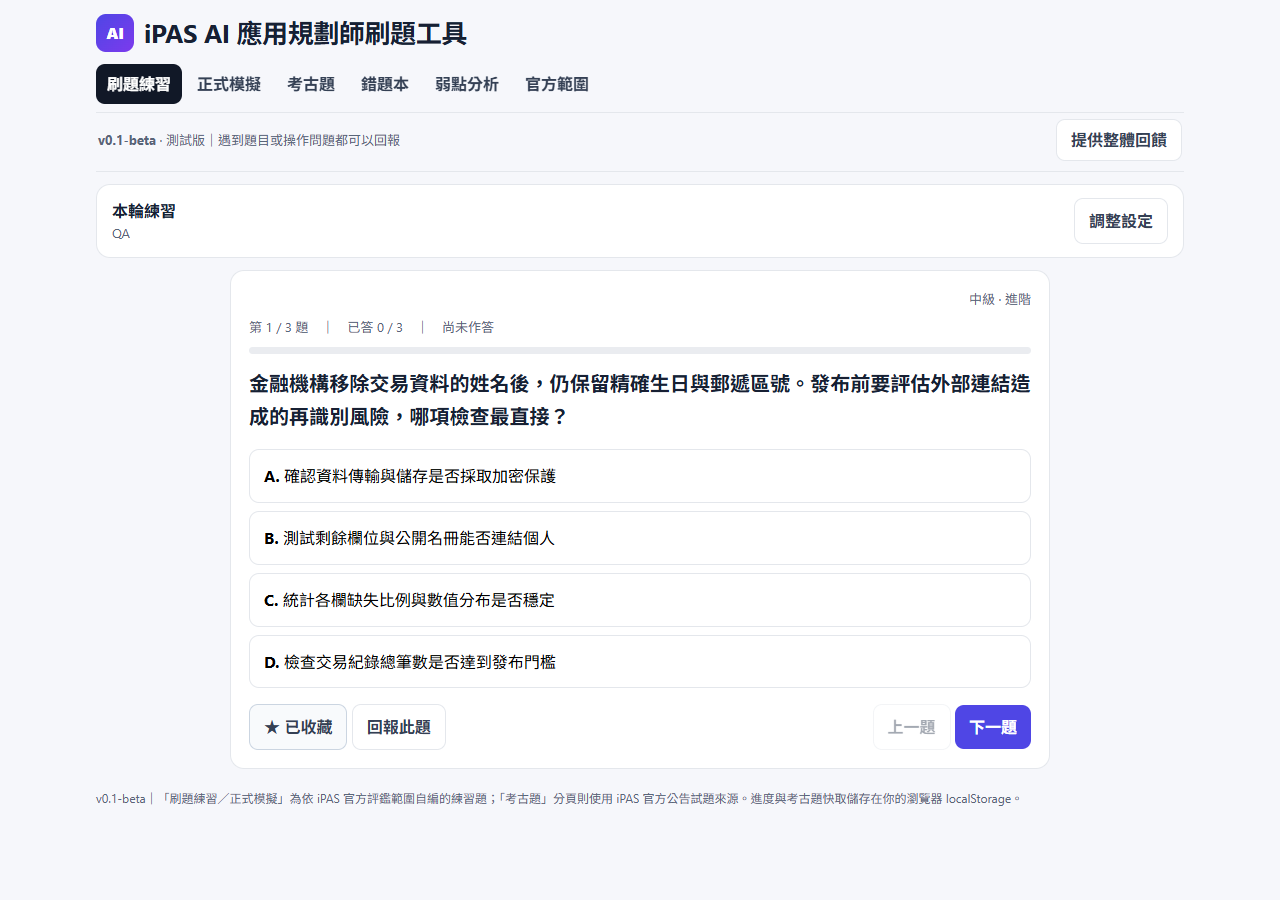
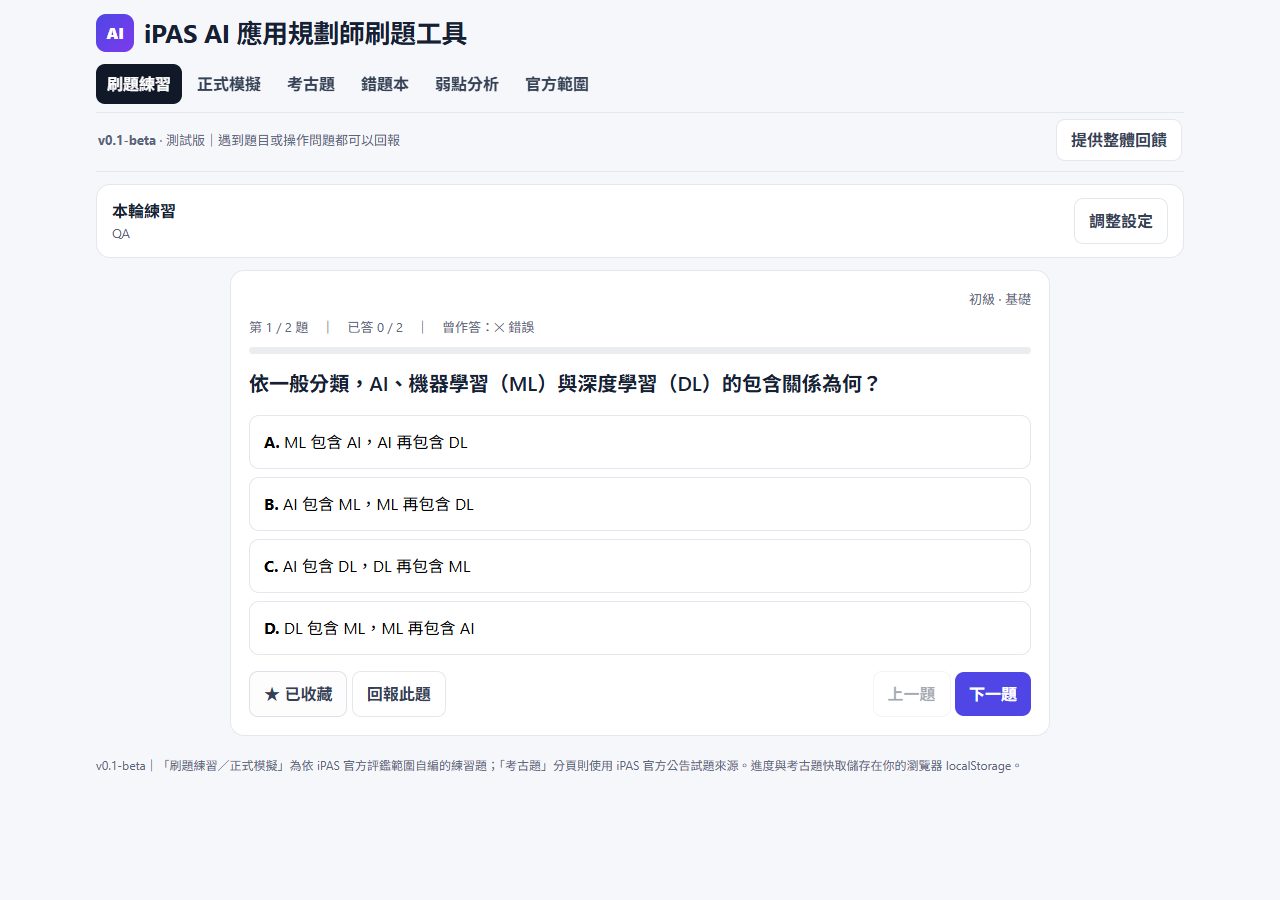
fix: hide historical practice topics until current-round answer (#154)

Changed region(s): [[0.0938, 0.4044, 0.8125, 0.9022], [0.3438, 0.3422, 0.4375, 0.3733], [0.75, 0.3111, 0.8125, 0.3422]]

diff --git a/index.html b/index.html
@@ -527,7 +527,7 @@ function renderPracticeQ(){
    ? `本輪：${current.ok?"✓ 正確":"✕ 錯誤"}`
    : past?`曾作答：${past.correct?"✓ 正確":"✕ 錯誤"}`:"尚未作答";
  a.innerHTML=`<div class="card questionCard ${q.id.startsWith('PAST-')?'officialQuestion':''}">
- <div class="qmeta"><span id="practiceTopicLabel" class="qmetaPrimary">${current||past?`${q.subject} · ${q.topic} ${esc(q.topicName)}`:""}</span><span class="qmetaSecondary">${q.level} · ${difficultyLabel(q.difficulty)}</span></div>
+ <div class="qmeta"><span id="practiceTopicLabel" class="qmetaPrimary">${current?`${q.subject} · ${q.topic} ${esc(q.topicName)}`:""}</span><span class="qmetaSecondary">${q.level} · ${difficultyLabel(q.difficulty)}</span></div>
  <div class="small">第 ${pIndex+1} / ${practiceSet.length} 題　｜　<span id="practiceAnsweredCount">已答 ${answered} / ${practiceSet.length}</span>　｜　<span id="practiceAttemptStatus" aria-live="polite">${attemptStatus}</span></div>
  <div class="progress" role="progressbar" aria-label="本輪作答進度" aria-valuemin="0" aria-valuemax="${practiceSet.length}" aria-valuenow="${answered}"><div id="practiceProgressFill" style="width:${practiceSet.length?answered/practiceSet.length*100:0}%"></div></div>
  ${renderPastSharedContext(q)}

diff --git a/docs/qa/issue-154/README.md b/docs/qa/issue-154/README.md
@@ -2,7 +2,9 @@
 
 Baseline: `dev@8894fac9267f558dd2c5448c07a8bd45a51ac095`. Branch: `ux/issue-154-practice-topic-reveal`.
 
-App change is limited to the Practice topic label in `index.html`: emit an empty label for an unrecorded answer; reveal the original label through the existing answer restoration path. Both current-round answers and existing `state.attempts` count as answered when revisiting. No question data, storage schema or scoring changes.
+App change is limited to the Practice topic label in `index.html`: emit an empty label until the question is answered in the current round; reveal the original label through the existing answer restoration path. Persisted `state.attempts` retains the existing history status but never makes the topic reveal-eligible in a new round. No question data, storage schema or scoring changes.
+
+Rework on 2026-10-10 addresses Technical Review FAIL on `f1de7ad`: the original `current || past` condition incorrectly exposed topics for historical answers. The condition now uses only `current`. The assertions and screenshots below supersede the original historical-answer QA expectation.
 
 ## Verification
 
@@ -11,7 +13,8 @@ Installed Edge, local HTTP, fresh isolated profiles at 1280×900 and 375×900.
 - PASS: unanswered label text is empty in the DOM, with no topic text/attribute fallback. Difficulty, question number and progress remain visible.
 - PASS: correct and incorrect choices immediately reveal the exact original subject/topic/name label; answer feedback, explanation, four disabled options and progress update normally.
 - PASS: next unanswered question has an empty label; previous answered question retains its label and restored selection.
-- PASS: bookmarking before answering does not reveal the topic. Existing historical answers and persisted answers after reload show their label; saved records remain unchanged by viewing.
+- PASS: bookmarking before answering does not reveal the topic. Historical answers, persisted answers after reload, and starting another round all keep the topic empty until a current-round answer; `曾作答` history remains visible.
+- PASS: the actual Practice `wrong` filter starts with historical wrong answers and empty topics. Incorrect answers immediately reveal the original label; next hides and previous retains the current-round label.
 - PASS: desktop/mobile screenshots inspected, no page horizontal overflow or JavaScript errors.
 - PASS existing source-aware weakness browser QA: both widths, 14 aggregation/selection cases, official cold-load/retry, no-drill, scoring/navigation and record preservation.
 - PASS existing official bundle browser QA: both widths, direct/shared/wrong contexts, migration/scoring/Practice/Mock/tab smoke and isolated Dev loader.
@@ -27,9 +30,10 @@ Existing regression commands:
 node scripts/test_source_aware_weakness.cjs
 node scripts/test_official_bundle_browser.cjs
 node scripts/test_official_competency_runtime.cjs
+node scripts/test_practice_topic_reveal.cjs
 git diff --check
 ```
 
-Targeted topic QA used three canonical questions (unrecorded privacy topic, unrecorded AI topic, historically answered generative-AI topic), an isolated seeded profile, real option clicks/keyboard activation, previous/next, bookmark and reload. No persistent test fixture or new dependency was added.
+Targeted topic QA is reproducible in `scripts/test_practice_topic_reveal.cjs`. It uses two canonical questions, isolated browser contexts, real option/button clicks, correct/incorrect answers, previous/next, bookmark, a new round, reload, and Practice wrong mode. Updated screenshots show a historically attempted question before and after its current-round answer. No new dependency was added.
 
 Limits: local Edge evidence; physical Safari and integrated Dev Preview Product Verify are not claimed. Engineering handoff only; no merge or release.
